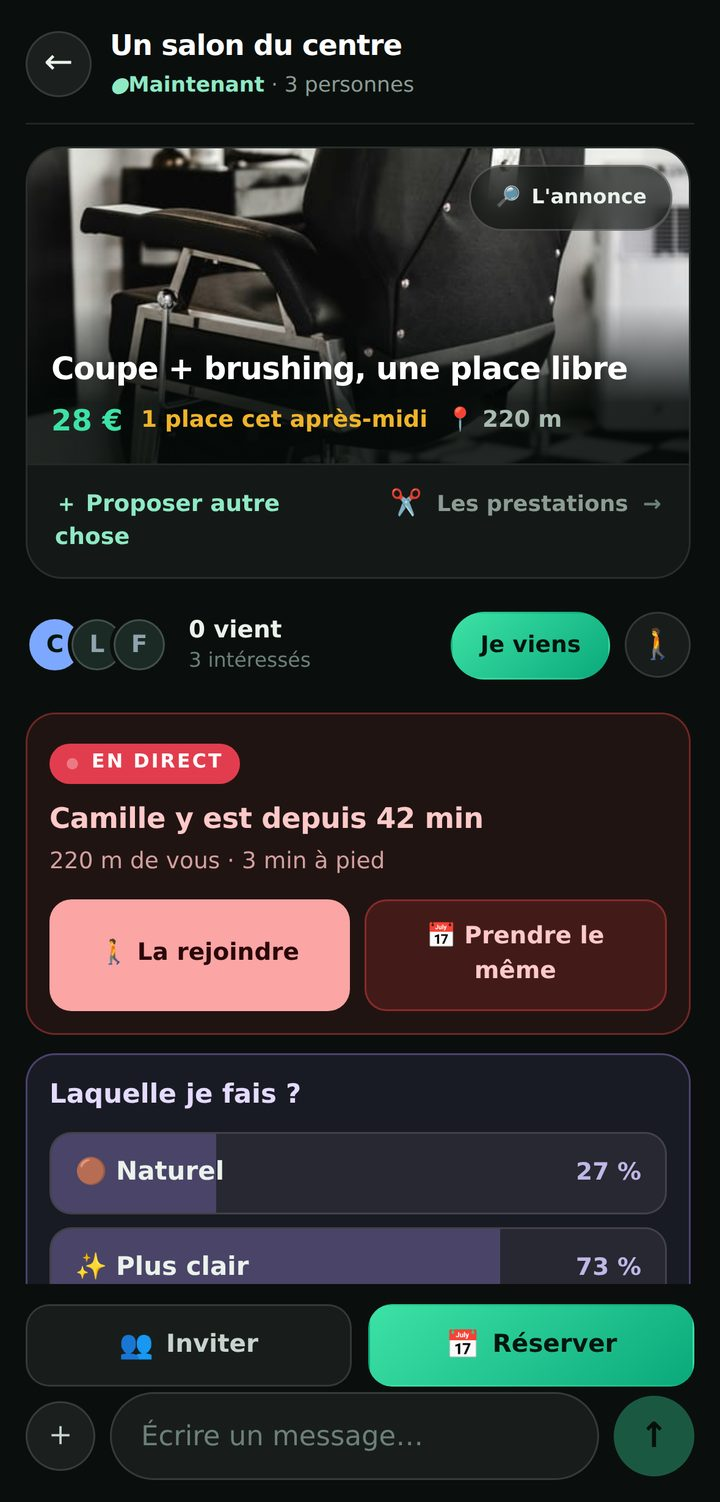
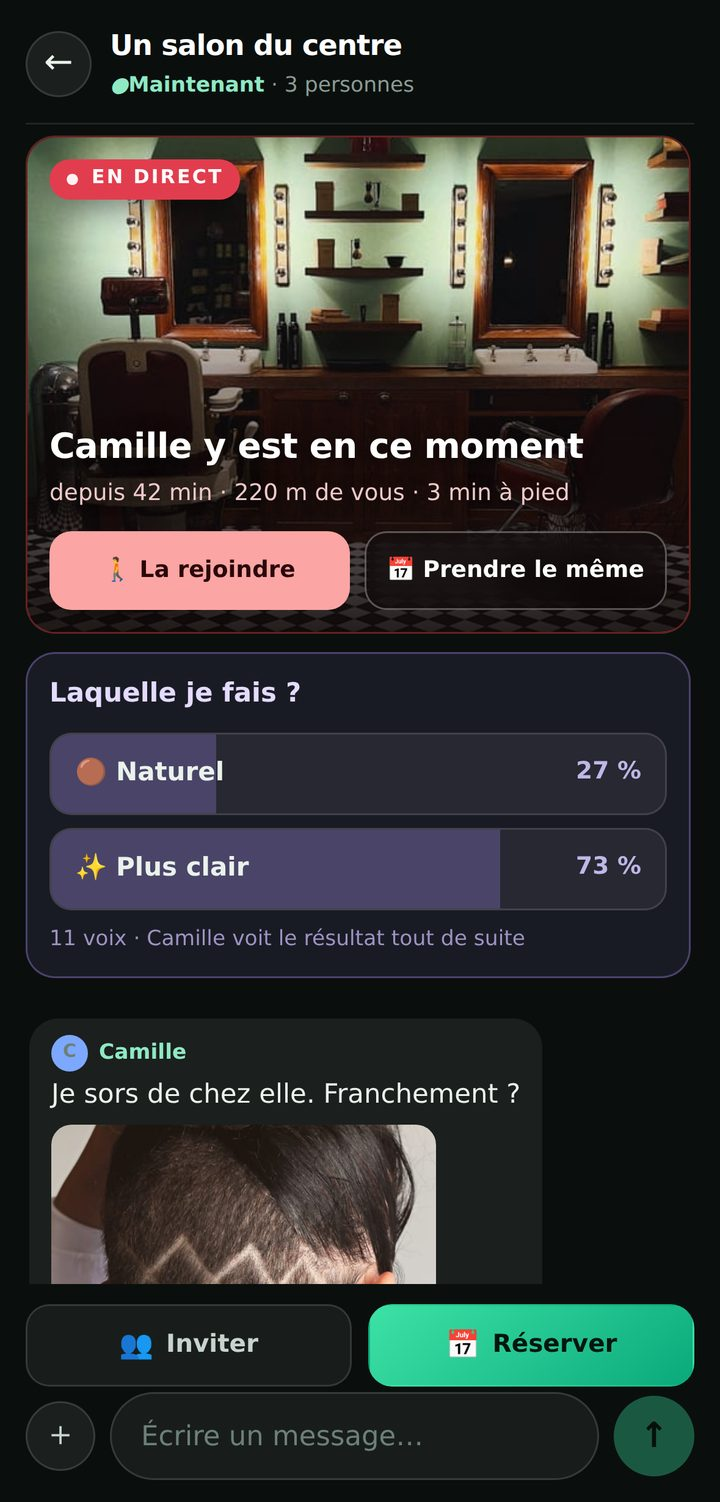
Le direct d'un salon devient une image, pas un encadré de texte
CE QUI A ÉTÉ DIT : « il faudrait qu'on voie le live direct, c'est-à-dire une
personne en vidéo qui est en train de se faire coiffer, et les autres
interagissent en voyant la vidéo » — et « sur la photo du screenshot du chat
il y a beaucoup trop d'infos ».

LES DEUX SE RÉPONDENT, ET LE CORRECTIF EST DANS L'APPLICATION, PAS SUR LA PAGE
D'ACCUEIL. « Camille y est » était trois lignes de texte dans un encadré
rouge. Or ce dont ce bloc parle est, par nature, une IMAGE : quelqu'un est
quelque part et le montre. Un encadré de texte demande de croire ; une image
montre — et c'est la seule chose qu'aucune messagerie ne sait faire.

LE BLOC EST DONC DEVENU UN DIRECT : l'image occupe le cadre, le voyant rouge
bat en haut à gauche là où toutes les applications de direct le posent, le
voile ne monte que sous le texte, et les deux actions — la rejoindre, prendre
le même — sont posées SUR l'image, parce qu'elles ne se comprennent que là où
l'on voit qu'elle y est.

LA VIDÉO EST PRÉVUE ET FACULTATIVE. `EnDirect` accepte maintenant une image et
une vidéo ; quand il y a une vidéo elle tourne en boucle, MUETTE — un son qui
démarre tout seul dans un salon de coiffure est la façon la plus rapide de
faire fermer l'application — avec l'image pour affiche. Sans vidéo, l'image
fait déjà l'essentiel, et c'est ce qui permet de lancer un direct d'une seule
main, le seul geste réaliste quand on a des papillotes sur la tête.

CE QU'IL FAUT SAVOIR SUR L'IMAGE CHOISIE. Aucune photo de quelqu'un en train
[…]

diff --git a/src/app/autour-de-moi/apercu-habitant.tsx b/src/app/autour-de-moi/apercu-habitant.tsx
@@ -2664,41 +2664,85 @@ export function ApercuHabitant() {
                     </span>
                   </div>
 
-                  {/* ─── QUELQU'UN Y EST, MAINTENANT ───
-                      WhatsApp dit « Pauline m'envoie une photo ». Ici on dit
-                      où elle est, depuis quand, à quelle distance, et combien
-                      de minutes il faut pour la rejoindre. C'est une autre
-                      proposition, et c'est la seule que le lieu rende
-                      possible. */}
+                  {/* ─── QUELQU'UN Y EST, ET ON LE VOIT ───
+                      WhatsApp dit « Pauline m'envoie une photo ». Ici on dit où
+                      elle est, depuis quand, à quelle distance, et combien de
+                      minutes pour la rejoindre. C'est une autre proposition, et
+                      c'est la seule que le lieu rende possible.
+
+                      C'ÉTAIENT TROIS LIGNES DE TEXTE dans un encadré rouge, et
+                      c'est devenu une image plein cadre. La raison tient en une
+                      phrase : ce dont ce bloc parle est, par nature, une image —
+                      quelqu'un est quelque part et le montre. Un encadré de
+                      texte demande de croire ; une image montre.
+
+                      LA VIDÉO EST MUETTE ET EN BOUCLE. Un son qui démarre tout
+                      seul dans un salon de coiffure est la façon la plus rapide
+                      de faire fermer l'application. playsInline pour qu'iOS ne
+                      la passe pas en plein écran de lui-même, et l'image sert
+                      d'affiche pendant le chargement.
+
+                      LES DEUX ACTIONS SONT POSÉES SUR L'IMAGE : « la rejoindre »
+                      et « prendre le même » ne se comprennent que là où l'on
+                      voit qu'elle y est. Sous l'image, elles redeviendraient
+                      deux boutons de plus. */}
                   {salon.enDirect && (
-                    <div className="ap-direct">
+                    <div className={`ap-direct${salon.enDirect.image || salon.enDirect.video ? " vu" : ""}`}>
+                      {salon.enDirect.video ? (
+                        <video
+                          className="ap-direct-f"
+                          poster={salon.enDirect.image}
+                          autoPlay
+                          muted
+                          loop
+                          playsInline
+                          preload="metadata"
+                        >
+                          <source src={salon.enDirect.video.webm} type="video/webm" />
+                          <source src={salon.enDirect.video.mp4} type="video/mp4" />
+                        </video>
+                      ) : salon.enDirect.image ? (
+                        /* eslint-disable-next-line @next/next/no-img-element */
+                        <img className="ap-direct-f" src={salon.enDirect.image} alt="" />
+                      ) : null}
+                      <span className="ap-direct-v" aria-hidden="true" />
+
                       <span className="ap-direct-h">
                         <i aria-hidden="true">●</i>
                         En direct
                       </span>
-                      <b>
-                        {salon.enDirect.qui} y est depuis {salon.enDirect.depuis}
-                      </b>
-                      <span className="ap-direct-l">
-                        {salon.enDirect.distance} de vous · {salon.enDirect.aPied} à pied
-                      </span>
-                      <div className="ap-direct-b">
-                        <a
-                          href="https://www.google.com/maps/dir/?api=1&destination=Dax"
-                          target="_blank"
-                          rel="noreferrer noopener"
-                        >
-                          🚶 La rejoindre
-                        </a>
-                        {/* « Prendre le même » appelait lui aussi la feuille du
-                            paquet : on réservait chez le commerce en tête du
-                            PAQUET, pas chez celui où l'amie se trouve. */}
-                        <button
-                          type="button"
-                          onClick={() => avecMonPrenom(() => setAConfirmer({ pourUnSeul: true }))}
-                        >
-                          📅 Prendre le même
-                        </button>
+
+                      <div className="ap-direct-d">
+                        {/* ON NE RÉPÈTE PAS LE LIEU. Le bandeau de la page le
+                            nomme déjà, deux centimètres au-dessus, et « Camille
+                            est chez Un salon du centre » se lisait mal —
+                            l'article indéfini d'un commerce anonymisé ne passe
+                            pas dans cette tournure. Ce que ce bloc apporte,
+                            c'est QUI et DEPUIS QUAND, pas où. */}
+                        <b>{salon.enDirect.qui} y est en ce moment</b>
+                        <span className="ap-direct-l">
+                          depuis {salon.enDirect.depuis} · {salon.enDirect.distance} de vous
+                          {" · "}
+                          {salon.enDirect.aPied} à pied
+                        </span>
+                        <div className="ap-direct-b">
+                          <a
+                            href="https://www.google.com/maps/dir/?api=1&destination=Dax"
+                            target="_blank"
+                            rel="noreferrer noopener"
+                          >
+                            🚶 La rejoindre
+                          </a>
+                          {/* « Prendre le même » appelait lui aussi la feuille du
+                              paquet : on réservait chez le commerce en tête du
+                              PAQUET, pas chez celui où l'amie se trouve. */}
+                          <button
+                            type="button"
+                            onClick={() => avecMonPrenom(() => setAConfirmer({ pourUnSeul: true }))}
+                          >
+                            📅 Prendre le même
+                          </button>
+                        </div>
                       </div>
                     </div>
                   )}
@@ -6546,17 +6590,45 @@ export function ApercuHabitant() {
            sans l'apprendre. Le vocabulaire complet est donc : vert
            l'application, or l'invitation, bleu l'embauche, violet le rappel,
            orange le coup de pouce, rose les evenements, rouge le direct. */
-        .ap-direct{flex:none;background:rgba(239,68,68,.1);
+        .ap-direct{position:relative;flex:none;overflow:hidden;
+          background:rgba(239,68,68,.1);
           border:1px solid rgba(239,68,68,.38);border-radius:16px;padding:12px;
           margin-bottom:10px;}
+        /* ─── QUAND IL Y A UNE IMAGE, C'EST ELLE LE BLOC ───
+           Trois lignes de texte dans un encadre demandaient de croire que
+           quelqu'un etait la-bas. Une image le montre, et c'est la seule chose
+           qu'aucune messagerie ne fait. Le cadre grandit, le texte descend au
+           pied, et les deux actions se posent dessus : « la rejoindre » ne se
+           comprend que la ou l'on voit qu'elle y est.
+           ATTENTION : jamais d'accent grave dans ces commentaires CSS. */
+        .ap-direct.vu{display:flex;flex-direction:column;justify-content:flex-end;
+          min-height:272px;padding:0;background:#160A0B;}
+        .ap-direct-f{position:absolute;inset:0;width:100%;height:100%;
+          object-fit:cover;display:block;}
+        /* Le voile ne monte que sous le texte : au-dessus, on doit voir la
+           piece ou elle se trouve, c'est tout l'objet du bloc. */
+        .ap-direct-v{position:absolute;left:0;right:0;bottom:0;height:74%;
+          pointer-events:none;background:linear-gradient(180deg,
+            rgba(12,6,7,0),rgba(12,6,7,.42) 44%,rgba(12,6,7,.88) 100%);}
         .ap-direct-h{display:inline-flex;align-items:center;gap:6px;font-size:10.5px;
           font-weight:850;letter-spacing:.1em;text-transform:uppercase;color:#fff;
           background:#E23D4E;border-radius:999px;padding:3px 9px;margin-bottom:8px;}
         .ap-direct-h i{font-style:normal;font-size:8px;
           animation:apVoyant 2.4s ease-in-out infinite;}
+        /* Le voyant part en haut a gauche des que le bloc porte une image :
+           c'est la place ou toutes les applications de direct le posent, et
+           c'est la seule convention que personne n'a besoin d'apprendre. */
+        .ap-direct.vu .ap-direct-h{position:absolute;left:12px;top:12px;z-index:2;
+          margin:0;box-shadow:0 6px 18px -6px rgba(0,0,0,.8);}
+        .ap-direct-d{position:relative;z-index:1;}
+        .ap-direct.vu .ap-direct-d{padding:12px;}
         .ap-direct b{display:block;font-size:15.5px;font-weight:850;color:#FFC9C9;
           letter-spacing:-.01em;}
+        .ap-direct.vu b{font-size:19px;color:#fff;line-height:1.15;
+          text-shadow:0 2px 12px rgba(0,0,0,.65);}
         .ap-direct-l{display:block;font-size:12.5px;color:#D3A0A0;margin-top:2px;}
+        .ap-direct.vu .ap-direct-l{color:#EFCACA;margin-top:4px;
+          text-shadow:0 1px 8px rgba(0,0,0,.6);}
         .ap-direct-b{display:flex;gap:8px;margin-top:11px;}
         .ap-direct-b a,.ap-direct-b button{flex:1;display:inline-flex;align-items:center;
           justify-content:center;gap:6px;font:inherit;font-size:13px;font-weight:850;
@@ -6564,6 +6636,16 @@ export function ApercuHabitant() {
           border:0;border-radius:12px;padding:10px;}
         .ap-direct-b button{color:#FFC9C9;background:rgba(239,68,68,.17);
           border:1px solid rgba(239,68,68,.4);}
+        /* Sur l'image, le second bouton doit rester lisible quelle que soit la
+           photo : le verre depoli remplace la transparence simple. */
+        .ap-direct.vu .ap-direct-b button{color:#fff;background:rgba(12,6,7,.5);
+          border-color:rgba(255,255,255,.3);
+          -webkit-backdrop-filter:blur(8px);backdrop-filter:blur(8px);}
+        /* SUR UNE SEULE LIGNE : « Prendre le meme » se coupait en deux et le
+           bouton devenait deux fois plus haut que son voisin. Deux points de
+           corps rendus, et la cible reste au-dessus des quarante-quatre. */
+        .ap-direct.vu .ap-direct-b a,.ap-direct.vu .ap-direct-b button{
+          font-size:12.5px;white-space:nowrap;padding:11px 8px;}
 
         /* LE VOTE. */
         .ap-vote{flex:none;background:rgba(167,139,250,.1);

diff --git a/src/lib/direct/salons.ts b/src/lib/direct/salons.ts
@@ -92,11 +92,34 @@ export type Statut = "hote" | "vient" | "interesse";
  * même dans un salon fermé, ça se choisit et ça s'arrête en un appui — et dans
  * une petite ville où tout le monde se reconnaît, ça compte plus, pas moins.
  */
+/**
+ * QUELQU'UN Y EST, EN CE MOMENT — et c'est la seule chose qu'aucune messagerie
+ * ne sait faire.
+ *
+ * CE QUE LE BLOC EST DEVENU, ET POURQUOI. C'était trois lignes de texte dans un
+ * encadré rouge. Or ce dont il parle est, par nature, une IMAGE : quelqu'un est
+ * quelque part et le montre. Le jugement de l'usage l'a dit dans ces termes —
+ * « il faudrait qu'on voie le live direct, c'est-à-dire une personne en vidéo
+ * qui est en train de se faire coiffer, et les autres interagissent en voyant
+ * la vidéo ». Un encadré de texte demande de croire ; une image montre.
+ *
+ * LA VIDÉO EST FACULTATIVE, ET LE BLOC MARCHE SANS. Une image fixe fait déjà
+ * l'essentiel — on voit où elle est — et c'est ce qui permet à un habitant de
+ * lancer un direct avec une photo prise d'une main, ce qui est le seul geste
+ * réaliste quand on a des papillotes sur la tête. La vidéo, quand elle existe,
+ * remplace l'image et tourne en boucle, sans son : un son qui démarre tout
+ * seul dans un salon de coiffure est la façon la plus rapide de faire fermer
+ * l'application.
+ */
 export type EnDirect = {
   qui: string;
   depuis: string;
   distance: string;
   aPied: string;
+  /** Ce qu'elle montre. Absente, le bloc se replie sur son texte. */
+  image?: string;
+  /** Muette et en boucle. L'image lui sert d'affiche pendant le chargement. */
+  video?: { mp4: string; webm: string };
 };
 
 /**
@@ -330,7 +353,19 @@ export const SALONS_SEMES: Salon[] = [
     distance: "220 m",
     // ELLE Y EST, ET ELLE L'A CHOISI. C'est la seule chose que WhatsApp ne sait
     // pas faire : « Camille est là-bas, à 220 m, depuis 42 minutes ».
-    enDirect: { qui: "Camille", depuis: "42 min", distance: "220 m", aPied: "3 min" },
+    // L'IMAGE EST CELLE DU SALON, PAS CELLE DE SA COIFFURE, et c'est un choix
+    // qu'il faut savoir : personne n'a filmé de séance de coiffure pour cette
+    // maquette, et une photo de « résultat » présentée comme un direct dirait
+    // le contraire de ce qu'elle montre. Une vue de la pièce, prise d'une main
+    // en attendant, est ce qu'on obtient vraiment. Le jour où il y a dix
+    // secondes de vidéo, elles se posent ici et rien d'autre ne change.
+    enDirect: {
+      qui: "Camille",
+      depuis: "42 min",
+      distance: "220 m",
+      aPied: "3 min",
+      image: "/direct/salon-neuf.jpg",
+    },
     vote: {
       question: "Laquelle je fais ?",
       options: [

diff --git a/src/app/le-direct/histoire.tsx b/src/app/le-direct/histoire.tsx
@@ -116,13 +116,13 @@ const CAS: Cas[] = [
       },
       {
         src: "/le-direct/coiffeur-salon.jpg",
-        alt: "Le salon : Camille est en direct chez la coiffeuse et demande à ses amies naturel ou plus clair.",
-        dit: "Camille y est déjà. Elle demande : naturel, ou plus clair ? Onze voix pendant qu’elle est dans le fauteuil.",
+        alt: "Le direct de Camille depuis le salon, et le vote de ses amies : naturel 27 %, plus clair 73 %.",
+        dit: "Camille y est, et elle le montre en direct. Ses amies regardent et tranchent : naturel, ou plus clair ? Onze voix.",
         fin: "Décidé en dix minutes",
       },
     ],
     chute:
-      "Un salon, ce n’est pas un fil de commentaires : c’est une décision prise pendant qu’elle compte encore.",
+      "Elle est en direct, ils regardent, ils votent — et elle a sa réponse avant que la couleur ne prenne.",
   },
   {
     cle: "soir",
